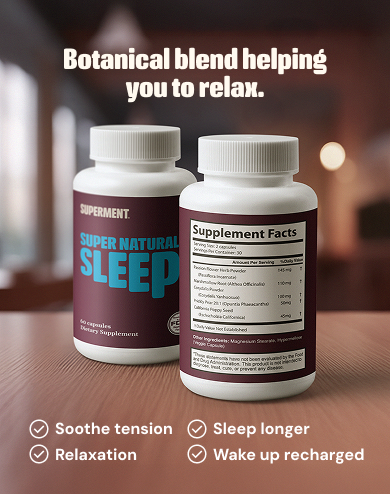
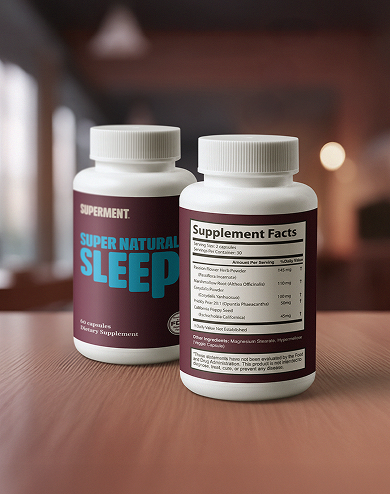
Corrigido component frascos

Changed region(s): [[0.1538, 0.0911, 0.8615, 0.2126], [0.0615, 0.8502, 0.9538, 0.9413]]

diff --git a/src/components/SuperFooter.vue b/src/components/SuperFooter.vue
@@ -9,122 +9,68 @@
   ]
 </script>
 
-<style scoped>
-  .font-crossfit {
-    font-family: 'Crossfit', sans-serif;
-  }
-  .font-dmsans {
-    font-family: 'DM Sans', sans-serif;
-  }
-  
-  section.footer {
-    width: 100%;
-    background-color: #370F1E;
-    display: flex;
-    flex-direction: column;
-    align-items: center;
-    justify-content: start;
-    padding: 0 0 20px 0;
-  }
-  
-  section.footer p.description {
-    margin-top: 30px;
-    font-family: 'DM Sans';
-    font-weight: 200;
-    font-style: Regular;
-    font-size: 10px;
-    line-height: 14px;
-    text-align: justify;
-    color: #FFFAF0;
-    width: 330px;
-  }
-
-  section.footer img {
-    margin-top: 20px;
-  }
-
-  section.footer p.reserved {
-    color: #FFFAF0;
-    font-family: 'Gelasio';
-    font-style: Italic;
-    font-size: 12px;
-    line-height: 14px;
-    letter-spacing: -1%;
-    text-align: center;
-    margin-top: 10px;
-    width: 220px;
-  }
-
-  section.footer div.footer {
-    width: 100%;
-    height: 100%;
-    display: flex;
-    flex-direction: column;
-    align-items: center;
-  }
-
-  section.footer div.explore {
-    width: 350px;
-    height: 100%;
-    display: flex;
-    flex-direction: column;
-    align-items: center;
-    justify-content: center;
-  }
-
-  section.footer div.contact {
-    width: 350px;
-    height: 100%;
-    display: flex;
-    flex-direction: column;
-    align-items: center;
-    justify-content: center;
-  }
-
-</style>
-
 <template>
-  <section class="footer">
-    <div class="explore text-white px-6 py-8 w-full">
-      <h2 class="text-4xl md:text-4xl font-bold font-crossfit uppercase mb-6 w-full"  style="text-align: start;">Explore</h2>
-      <ul class="space-y-1 text-[#FFFAF0] font-dmsans text-[18px] md:text-[18px]">
-        <li
-          v-for="item in links"
-          :key="item.label"
-          class="group border-b border-[#FFFAF0] h-[38px] w-[300px]"
-        >
-          <RouterLink
-            :to="item.href"
-            class="flex justify-between items-center w-full transition underline-offset-2 hover:underline"
+  <section class="w-full bg-[#370F1E] flex flex-col items-center justify-start pt-0 pb-5">
+
+    <!-- PARTE 1: Explore + Contact -->
+    <div class="flex flex-col md:flex-row w-full justify-center items-center md:items-start">
+      <!-- Explore -->
+      <div class="w-full max-w-[350px] px-6 py-8 text-white flex flex-col items-start justify-center" >
+        <h2 class="text-4xl font-bold font-crossfit uppercase mb-6 w-full text-left">Explore</h2>
+        <ul class="space-y-1 text-[#FFFAF0] font-dmsans text-[18px]">
+          <li
+            v-for="item in links"
+            :key="item.label"
+            class="group border-b border-[#FFFAF0] h-[38px] w-[300px]"
           >
-            <span>{{ item.label }}</span>
-            <span class="text-1xl transition group-hover:translate-x-1">→</span>
-          </RouterLink>
-        </li>
-      </ul>
+            <RouterLink
+              :to="item.href"
+              class="flex justify-between items-center w-full transition underline-offset-2 hover:underline"
+            >
+              <span>{{ item.label }}</span>
+              <span class="text-[16px] transition group-hover:translate-x-1">→</span>
+            </RouterLink>
+          </li>
+        </ul>
+      </div>
+
+      <!-- Contact -->
+      <div class="w-full max-w-[350px] px-6 py-8 text-white font-dmsans flex flex-col items-start text-left" >
+        <h2 class="text-4xl font-normal font-crossfit uppercase mb-6">Contact</h2>
+        <ul class="text-[#FFF]">
+          <li class="flex items-center gap-2 border-b border-[#FFF] w-[300px] h-[38px]">
+            <span class="w-8 h-8 flex items-center justify-center">
+              <img src="@/assets/image/icons/email.png" alt="email icon" class="w-6 h-6" />
+            </span>
+            <a href="mailto:superhelp@superment.co" class="text-[16px]">superhelp@superment.co</a>
+          </li>
+          <li class="flex items-center gap-2 border-b border-[#FFF] py-1 w-[300px] h-[38px] mt-1">
+            <span class="w-8 h-8 flex items-center justify-center">
+              <img src="@/assets/image/icons/instagram.png" alt="instagram icon" class="w-6 h-6" />
+            </span>
+            <a href="https://instagram.com/superment.co" target="_blank" class="text-[16px]">@superment.co</a>
+          </li>
+        </ul>
+      </div>
+
+
     </div>
-    <div class="contact bg-[#370F1E] text-white px-6 py-8 w-full font-dmsans flex flex-col items-start text-left">
-      <h2 class="text-3xl md:text-3xl font-normal font-crossfit uppercase mb-6">Contact</h2>
-      <ul class="space-y-4 text-[#FFF]">
-        <li class="flex items-center gap-2 border-b border-[#FFF] pb-2 w-[300px]">
-          <span class="w-8 h-8 flex items-end justify-center rounded">
-            <img src="@/assets/image/icons/email.png" alt="email icon" class="w-7 h-7 rounded" />
-          </span>
-          <a href="mailto:superhelp@superment.co" class="text-[16px]">superhelp@superment.co</a>
-        </li>
-        <li class="flex items-center gap-2 border-b border-[#FFF] pb-2 w-[300px]">
-          <span class="w-8 h-8 flex items-end justify-center rounded">
-            <img src="@/assets/image/icons/instagram.png" alt="instagram icon" class="w-7 h-7 rounded" />
-          </span>
-          <a href="https://instagram.com/superment.co" target="_blank" class="text-[16px]">@superment.co</a>
-        </li>
-      </ul>
+
+    <!-- PARTE 2: InputRD -->
+    <div class="w-[350px] md:w-full md:max-w-[700px] flex justify-center md:justify-center px-6">
+      <InputRD />
     </div>
-    <InputRD />
-    <div class="footer">
-      <img src="@/assets/image/sleepSuperment/superment1.png" alt="superment">
-      <p class="reserved">© Super Natural Sleep Research 2025. All Rights Reserved.</p>
-      <p class="description">Super Natural Sleep is a supplement formulated with natural ingredients that relax the nervous system and guide the user into deep, restorative sleep. It does not contain melatonin or harsh chemicals. Super Natural Sleep is manufactured in the United States by an FDA registered and GMP-compliant laboratories. All product’s quality, safety, and compliance certifications are managed by our manufacturing partner. This product is not intended to diagnose, treat, cure or prevent any disease. Always consult your physician before starting any dietary supplement, especially if you are taking medications, are pregnant, or have a medical condition. Super Natural Sleep  is part of the commercial portfolio of Superment, a brand owned and operated by an internacional company in the United States.</p>
+
+
+    <!-- PARTE 3: Footer com logo e texto -->
+    <div class="flex flex-col items-center mt-6">
+      <img src="@/assets/image/sleepSuperment/superment1.png" alt="superment" class="mt-5" />
+      <p class="text-[#FFFAF0] font-gelasio italic text-[12px] leading-[14px] text-center mt-2 w-[220px]">
+        © Super Natural Sleep Research 2025. All Rights Reserved.
+      </p>
+      <p class="text-[#FFFAF0] font-dmsans font-light text-[10px] leading-[14px] text-justify mt-6 w-[330px] md:w-[700px]">
+        Super Natural Sleep is a supplement formulated with natural ingredients that relax the nervous system and guide the user into deep, restorative sleep. It does not contain melatonin or harsh chemicals. Super Natural Sleep is manufactured in the United States by an FDA registered and GMP-compliant laboratories. All product’s quality, safety, and compliance certifications are managed by our manufacturing partner. This product is not intended to diagnose, treat, cure or prevent any disease. Always consult your physician before starting any dietary supplement, especially if you are taking medications, are pregnant, or have a medical condition. Super Natural Sleep is part of the commercial portfolio of Superment, a brand owned and operated by an internacional company in the United States.
+      </p>
     </div>
   </section>
 </template>

diff --git a/src/components/sleepSupermentComponents/Frascos.vue b/src/components/sleepSupermentComponents/Frascos.vue
@@ -1,0 +1,75 @@
+<template>
+  <div
+    class="bg-image-mobile sm:bg-image-desktop flex flex-col items-center justify-between py-5 px-0 bg-cover bg-center bg-no-repeat"
+  >
+    <!-- Título no topo -->
+    <p class="title">
+      Botanical blend helping you to relax. 
+    </p>
+
+    <!-- Itens em grade 2x2 -->
+    <div class="grid grid-cols-2">
+      <!-- Primeira Coluna -->
+      <div class="flex flex-row items-center pl-6">
+        <span class="w-5 h-5 bg-[url('@/assets/image/icons/icone-circle.png')] bg-contain bg-no-repeat bg-center"></span>
+        <p class="text-[#FFFAF0] text-sm ml-1 description">Soothe tension</p>
+      </div>
+      <!-- Segunda Coluna -->
+      <div class="flex flex-row items-center pr-6">
+        <span class="w-5 h-5 bg-[url('@/assets/image/icons/icone-circle.png')] bg-contain bg-no-repeat bg-center"></span>
+        <p class="text-[#FFFAF0] text-sm ml-1 description">Sleep longer</p>
+      </div>
+      <!-- Primeira Coluna -->
+      <div class="flex flex-row items-center pl-6">
+        <span class="w-5 h-5 bg-[url('@/assets/image/icons/icone-circle.png')] bg-contain bg-no-repeat bg-center"></span>
+        <p class="text-[#FFFAF0] text-sm ml-1 description">Relaxation</p>
+      </div>
+      <!-- Segunda Coluna -->
+      <div class="flex flex-row items-center pr-6">
+        <span class="w-5 h-5 bg-[url('@/assets/image/icons/icone-circle.png')] bg-contain bg-no-repeat bg-center"></span>
+        <p class="text-[#FFFAF0] text-sm ml-1 description">Wake up recharged</p>
+      </div>
+    </div>
+  </div>
+</template>
+
+
+<style scoped>
+@font-face {
+  font-family: 'Crossfit';
+  src: url('../../assets/fonts/crossfit/Crossfit-Black.otf') format('truetype');
+  font-weight: 900;
+  font-style: normal;
+}
+
+.bg-image-mobile {
+  @apply w-[full] h-[494px] bg-cover bg-center bg-no-repeat;
+  background-image: url('@/assets/image/sleepSuperment/frascos.png');
+}
+
+@media (min-width: 640px) {
+  .bg-image-desktop {
+    background-image: url('@/assets/image/sleepSuperment/frascos.png');
+  }
+}
+
+p.title {
+  font-family: 'Crossfit';
+  font-weight: 900;
+  font-size: 28px;
+  line-height: 28px;
+  text-align: center;
+  color: #FFFAF0;
+  width: 280px;
+}
+
+p.description {
+  font-family: 'DM Sans';
+  font-weight: 700;
+  font-style: Bold;
+  font-size: 16px;
+  line-height: 21px;
+  letter-spacing: 0%;
+
+}
+</style>

diff --git a/src/components/InputRD.vue b/src/components/InputRD.vue
@@ -15,24 +15,22 @@ onMounted(() => {
 <style scoped>
   #e-mail-site-2-fc7666a2bfa336762e39 form {
     width: 100% !important;
-    max-width: 600px;
+    max-width: 700px;
   }
 
   .content-input {
     width: 100%;
-    max-width: 360px;
     display: flex;
     flex-direction: column;
-    align-items: center;
-    justify-content: center;
+    align-items: start;
+    justify-content: start;
   }
 
   .title {
     font-family: 'Crossfit';
-    color: #FFFAF0;
+    color: #FFF;
     font-size: 32px;
     text-align: start;
-    width: 300px;
   }
 
 </style>
@@ -44,6 +42,7 @@ onMounted(() => {
     role="main"
     id="e-mail-site-2-fc7666a2bfa336762e39"
     class="w-full mx-auto"
+    style="margin-left: -30px;"
   ></div>
 </div>
 

diff --git a/src/pages/superSleep.vue b/src/pages/superSleep.vue
@@ -7,6 +7,7 @@
   import SuperFooter from '../components/SuperFooter.vue';
   import TestimonialsCarousel from '../components/TestimonialsCarousel.vue';
   import Stopwatch from '../components/Stopwatch.vue';
+  import Frascos from '../components/sleepSupermentComponents/Frascos.vue';
 </script>
 
 <template>
@@ -111,9 +112,7 @@
       <TestimonialsCarousel/>
     </div>
   </section>
-  <section class="frascos">
-    <img src="@/assets/image/sleepSuperment/frascos.png" alt="frascos" class="frascos">
-  </section>
+  <Frascos/>
   <section class="shop-now">
     <p class="shop">SHOP NOW</p>
     <div class="stripe-white"></div>

diff --git a/src/styles/superSleep.scss b/src/styles/superSleep.scss
@@ -412,16 +412,6 @@ img.selos {
     margin-top: 10px;
 }
 
-section.frascos {
-    height: 530px;
-    width: 100%;
-}
-
-section.frascos img.frascos {
-    width: 100%;
-    height: 530px;
-}
-
 section.testimonials {
     width: 100%;
     height: 100%;
